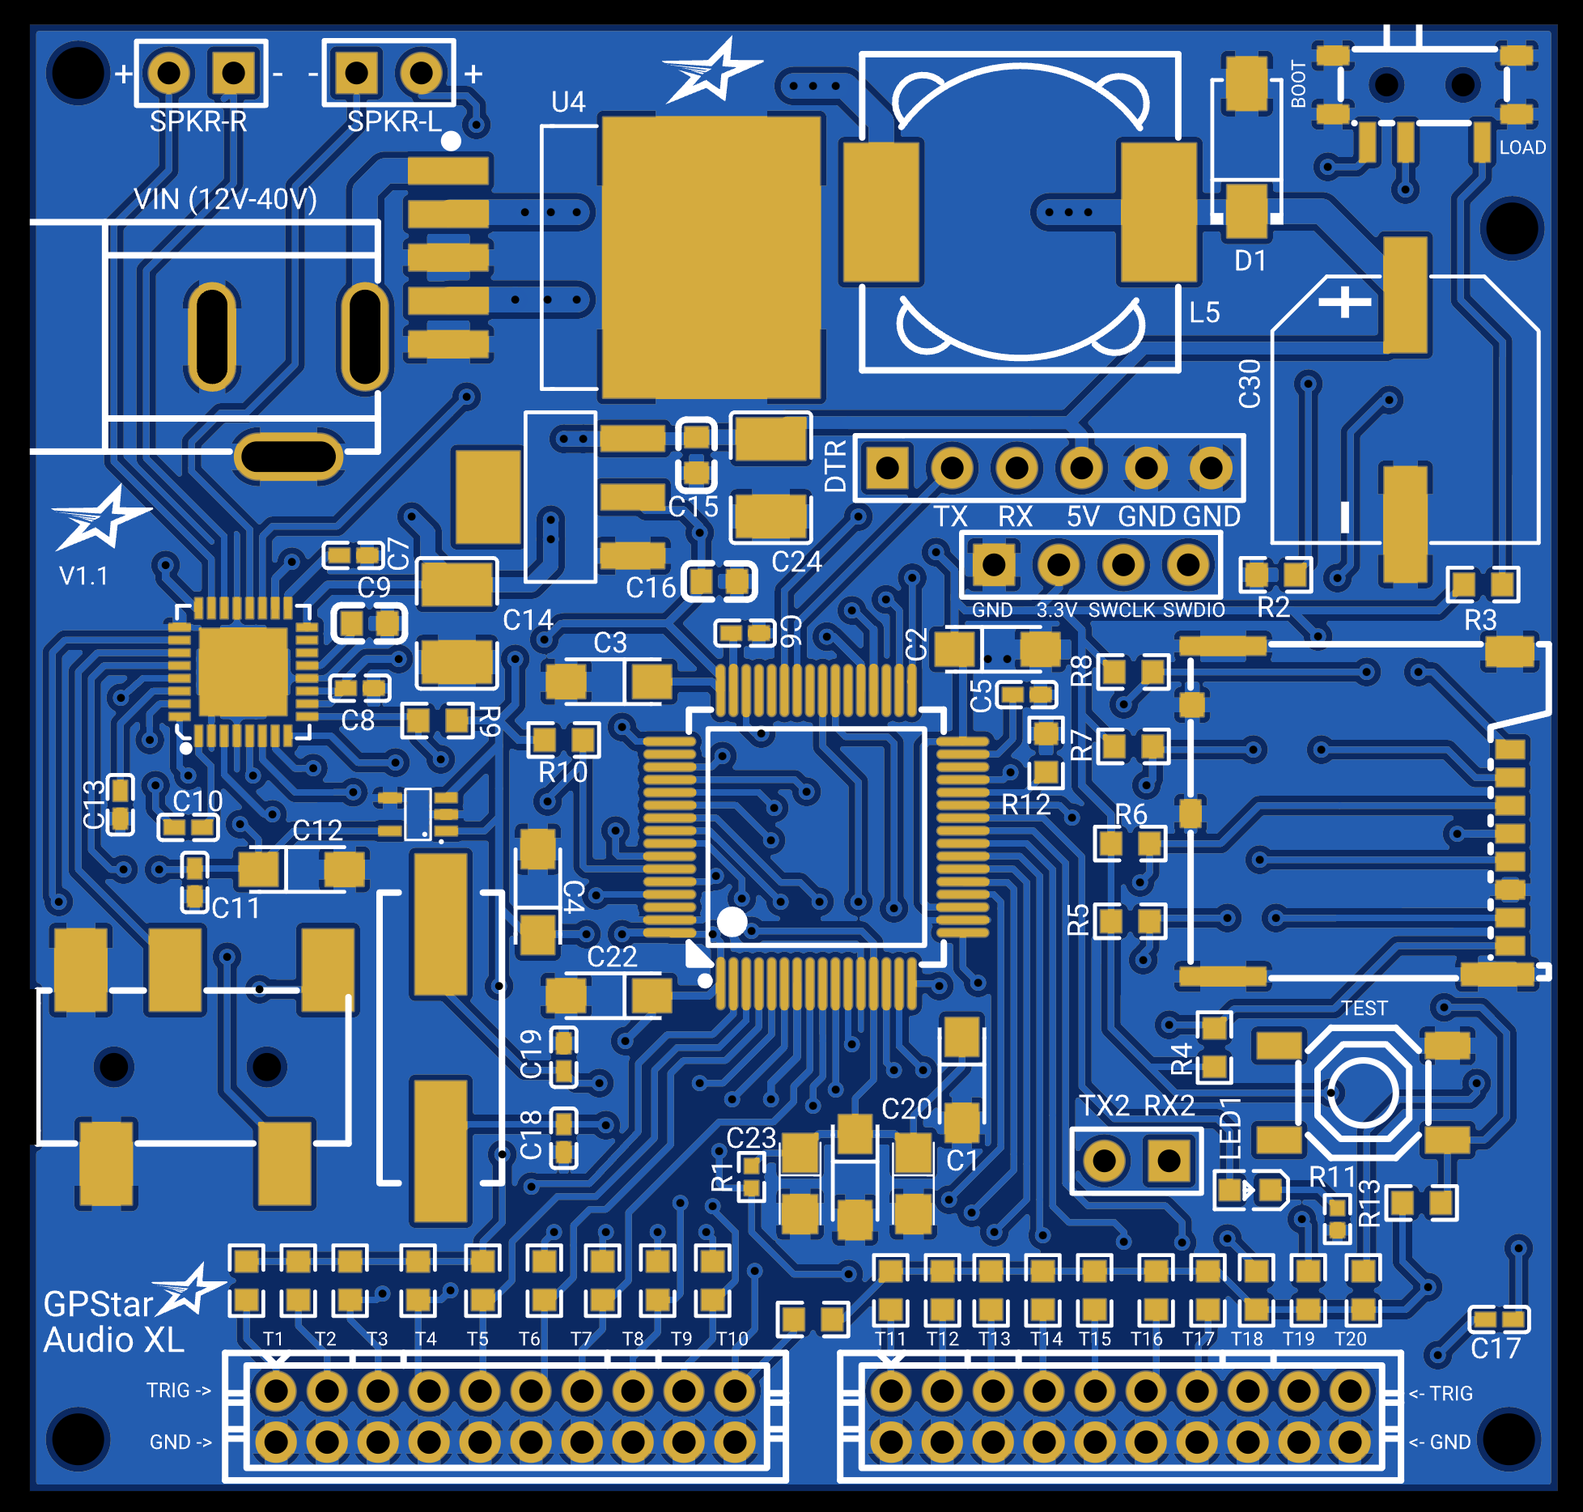
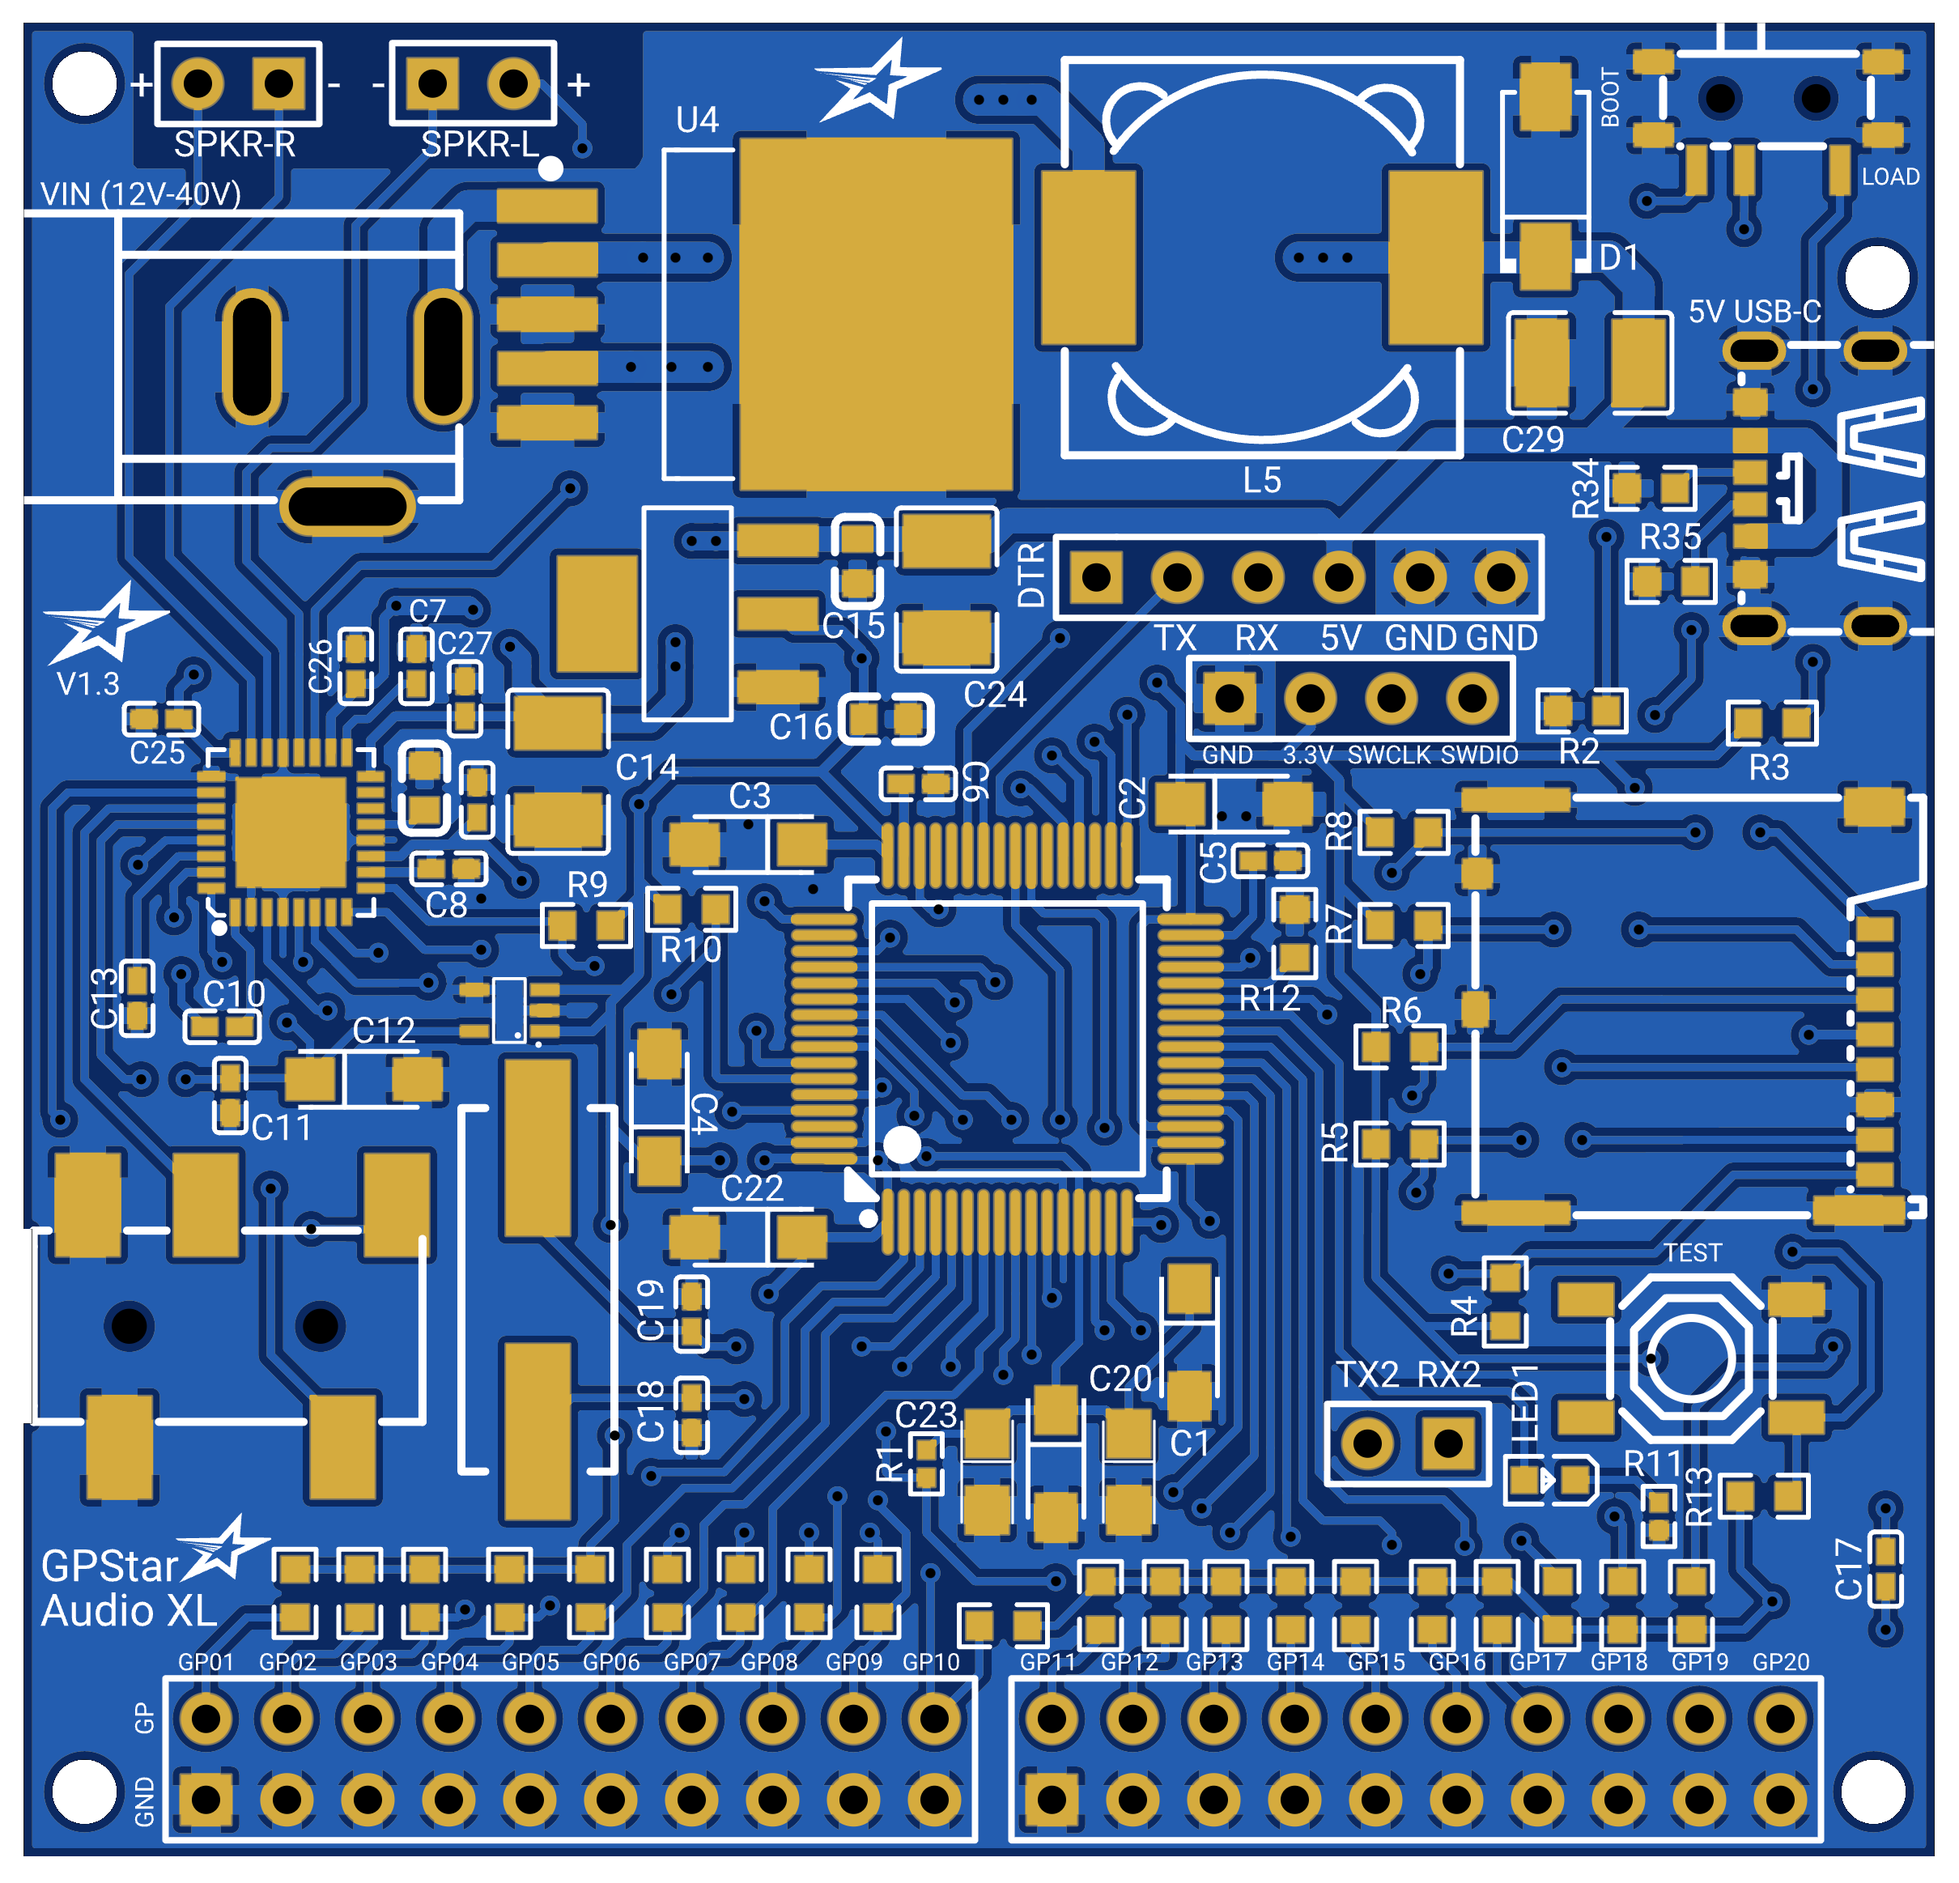
GPStar Audio XL documentation update

diff --git a/README.md b/README.md
@@ -1,6 +1,6 @@
 ## <img src='images/gpstar_logo.png' width=50 align="left"/> GPStar Audio - Serial Library
 
-This repository contains the serial communication control library for the [GPStar Audio](https://gpstartechnologies.com/products/gpstar-audio) and [GPStar Audio XL](https://gpstartechnologies.com/products/gpstar-audio-xl) series of audio boards from GPStar Technologies. They are compatible with Arduino and other microcontrollers and in the case of the XL version, sounds can be triggered from the bank of 20 available trigger pins.
+This repository contains the serial communication control library for the [GPStar Audio](https://gpstartechnologies.com/products/gpstar-audio) and [GPStar Audio XL](https://gpstartechnologies.com/products/gpstar-audio-xl) series of audio boards from GPStar Technologies. They are compatible with Arduino and other microcontrollers and in the case of the XL version, sounds can be triggered from the bank of 20 available GP pins.
 
 [![](images/gpstar_audio.png)](https://gpstartechnologies.com/products/gpstar-audio)
 
@@ -133,6 +133,7 @@ Example code to demonstrate some of the GPStar Audio's features can be found in 
 
 | Label | Notes |
 |-------|-------|
+| 5V USB-C | A standard USB-C port for which you can provide 5V power. The recommended way to power GPStar Audio XL. |
 | VIN (12V-40V) | You can power the device through the DC barrel jack. It can accept voltage ranges from 12V up to 40V. You can also power the device via the UART connection mentioned above. |
 | BOOT/LOAD | A slide switch button. When set to BOOT the system will operate normally. When set to LOAD the system enters programming mode and allows you to flash updated firmware over the UART connection. Make sure it is set to BOOT afterwards for it to operate. |
 | SPKR-R | Right Speaker output from the onboard stereo amplifier. Capable of powering either a 4Ω 2.5W or 8Ω 1.25W speaker at 5V. |
@@ -144,16 +145,15 @@ Example code to demonstrate some of the GPStar Audio's features can be found in 
 #### The on-board stereo amplifier is capable of powering either a 4Ω 2.5W or 8Ω 1.25W speaker at 5V from each channel.
 
 ---
-### Triggering Pins
+### How to use the GP Pins
 
-Up to 20 triggering pins are availble on the GPStar Audio XL. They have JST-PH 2.0mm spacing between each bank of 10 pins.
+Up to 20 GP pins are available on GPStar Audio XL. The GP pins have a standard 2.54mm spacing between each one. You can easily wire a standard SPDT switch or any other toggle switch, header pins or JST-XH connectors to make the connection to the GP pins.
 
-![](images/GPStarAudioXL_triggers.png)
+![](images/GPStarAudioXL_GPpins.png)
 
 | Label | Notes |
 |-------|-------|
-| T1 - T20 | You can manually trigger sounds assigned to these pins by connecting them to the below ground pin. You can do this easily with standard push buttons or switches. These pins can be configured in the configuration file that is placed on the micro SD card (see below) to play different sounds, and/or set the playback parameters of the assigned file such as looping. By default they will play sound 1 through 20.
-
+| GP01 - GP20 | There are 2 banks of pins for a total of 20. Ground the corresponding GP pin to the ground pin below it to play back a WAV file assigned to that particular GP pin.
 
 ### Optional Connectors
 
@@ -163,12 +163,13 @@ Up to 20 triggering pins are availble on the GPStar Audio XL. They have JST-PH 2
 | TX2/RX2 | TX2/RX2 | Alternative serial communication port used for debugging. |
 | TEST |  | A button located on the lower right corner of the board. Pressing this button will play the first track on the micro SD card. |
 
-## Configuration file
-A configuration file is not required. However you can configure some settings by placing a `GPStarAudio.ini` configuration file into the root of the micro SD card. An example file can be found in this repository. If a configuration file is not found on the micro SD card the default settings are used.
+## Configuration file and syntax usage
+A configuration file is not required. However you can configure many settings by placing a GPStarAudio.ini configuration file into the root of the Micro SD Card. Many options can be set, such as the default volume, serial communication baud rate, LED settings and to how customising the GP action pins for how they handle playback.
 
-Many options can be set, such as the default output amplifier gain, serial communication baud rate, LED settings and to how the trigger pins handle playback.
+A example file can be found in this repository. When no configuration file is present on the Micro SD Card, then GPStar Audio XL will revert to all the standard default settings.
 
-The syntax of the file is very simple, using enclosed square brackets to setup configuration areas.
+The syntax of the file is very simple which use enclosed square brackets to setup configuration areas. 
+Example syntax is as follows:
 
 **[gpstarconfig]:** This area can set the general settings of the board. If none of these settings exist in the ini file, then the system will default to the default settings for each option.
 
@@ -180,20 +181,30 @@ The syntax of the file is very simple, using enclosed square brackets to setup c
 
 **led&#95;off:** Control whether the onboard status LED flashes or not during playback or non playback. Valid values are 0 for allowing the LED to function or `1` for disabling the LED. The default is `0`.
 
-## Trigger configuration
-Unique to GPStar Audio XL are the trigger pins. These can be setup so you can play sounds without any coding. You can also conigure the behaviour of these pins by setting them up into the GPStarAudio.ini configuration file. Please refer to the example configuration file located in this repository for usage.
+## GP pin configuration and usage
+Unique to GPStar Audio XL are the GP pins. These can be setup so you can play sounds without any coding. This area contains playback setup and configuration of the 20 GP pins. The pins are identified by gp1_ prefix in the ini file. The range is from gp1_ up to gp20_. Please refer to the example configuration file located in this repository for usage.
 
-Note that these do not need to be configured for the trigger pins to operate and if `GPStarAudio.ini` is not on the micro SD card the default settings are loaded for the trigger pins.
+Note that these do not need to be configured for the GP pins to operate and if `GPStarAudio.ini` is not on the micro SD card the default settings are loaded for the GP pins.
 
-**[gpstartracks]:** This area contains playback setup and configuration of the 20 trigger pins. The pins are identified by gp1_ prefix in the ini file. The range is from `gp1_` up to `gp20_`.
+**[gpstarmode]** Valid settings for this is `normal`, or `repeat`. Normal plays the track and it stops when it finishes. Repeat will make the track loop forever unless re activated again to do something else.
 
-**gp#&#95;playback:** Control how the playback is assigned to this trigger. Valid settings are `normal` or `loop`. `normal` will play the file until completion then it stops. `loop` will continuously loop the the audio until the pin is triggered again. Default is `normal`.
+**[gpstartrigger]** Control how the playback is assigned to this GP pin. Valid settings are `press` or `hold`. Pressing will activate the GP pin and play the track. Hold will also activate any setting assigned to the GP pin for the track, however releasing will make it perform an associated action setup with **[gpstarplayback]**. Default is `normal`.
 
-**gp#&#95;trigger:** Set how the audio is triggered. Valid settings are `press` or `hold`. With `press`, when you make contact between the trigger pin and the ground pin below it the audio file will play and will contiinue to play even when you release the contact between the trigger pin and ground pin. With `hold`, you need to make continuous contact between the trigger pin and ground pin for the audio to play, as releasing the contact will cause it to stop. Default is `press`.
+**[gpstarplayback]** This sets what the GP pin action will do if it is already playing a track associated with it. Valid settings are `stop`, `pause`, `restart`. When pause is used, activating the GP pin again will resume the playback of the track where it left off.
 
-**gp#&#95;file_number:** The track number on the microSD card. The default is the pin number of this trigger. For example, set this to `100` to play the wav file with the `100_` prefix.
+**[gpstartracks]** The track number on the MicroSD Card. The default is the pin number of this GP pin. For example, set this to 100 to play the wav file with the 100_ prefix.
 
-**gp#&#95;volume:** The default volume for the track. Valid ranges are `0` to `-59`, with `0` being the loudest and `-59` being the most quiet. The default is `0`.
+**[gpstartrackvolume]** The default volume for the individual track playback. Valid ranges are 0 to -59, with 0 being the loudest and -59 being the most quiet. The default is 0.
+
+## Preparing your audio files
+GPStar Audio plays audio from uncompressed WAV files from a MicroSD Card of any size formatted as FAT32. 
+Please note that MicroSD cards larger than 32GB often come formatted in exFAT. Please reformat these cards as FAT32 using 32KB block size. Mac and Linux users can format normally with their standard disk utility software. Windows users will need to use the FAT32 Format utility found on the gpstartechnologies.com support and downloads page to format cards with capacities larger than 32GB. 
+
+The currently supported WAV file format is 16 bit at 44.1kHz stereo. Other audio formats can be easily converted with any audio editor or free ones. All WAV files must be loaded onto the root of the MicroSD card and named appropriately with a prefixed number sequence of `###_filename.wav`. For example, `001_sound1.wav, 002_sound2.wav, 4000_sound3.wav`. The most and only important thing to remember in the naming is the `###_` prefix for all tracks. 
+
+You must also **remove** any metadata that may be present in the WAV files. This can be done in many free audio editors such as Audacity.
+
+**It is highly recommended to use high quality and fast MicroSD cards, otherwise audio playback can be slow or delayed. We recommend cards as fast or faster than Sandisk Extreme A1/A2 U3 V30.**
 
 ## Links
 
